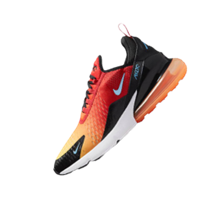
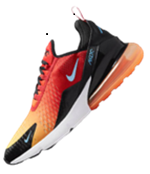
ecommerce app

diff --git a/lib/screens/homeScreen.dart b/lib/screens/homeScreen.dart
@@ -23,11 +23,9 @@ class _HomeState extends State<Home> {
             children: [
               // Navbar
               Container(
-                padding: EdgeInsets.only(
-                    top: 80, left: 20, right: 20),
+                padding: EdgeInsets.only(top: 80, left: 20, right: 20),
                 child: Row(
-                  mainAxisAlignment: MainAxisAlignment
-                      .spaceBetween, 
+                  mainAxisAlignment: MainAxisAlignment.spaceBetween,
                   children: [
                     Icon(
                       Icons.menu,
@@ -54,8 +52,7 @@ class _HomeState extends State<Home> {
               // ==== PURPLE CONTAINER ====
 
               Container(
-                margin:
-                    EdgeInsets.only(top: 30), 
+                margin: EdgeInsets.only(top: 30, left: 15, right: 15),
                 height: 150,
                 width: 360,
                 decoration: BoxDecoration(
@@ -64,6 +61,35 @@ class _HomeState extends State<Home> {
                   border: Border.all(
                     color: Color.fromRGBO(170, 20, 240, 1),
                   ),
+                ),
+                child: Row(
+                  children: [
+                    Container(
+                      width: MediaQuery.of(context).size.width * 0.5,
+
+                      decoration: BoxDecoration(
+                        color: AppColors.heartColor,
+                        borderRadius: BorderRadius.circular(20),
+                        border: Border.all(
+                          color: AppColors.heartColor,
+                        ),
+                      ),
+                    ),
+
+                  // === container 2 ===
+                  Container(
+                      // width: MediaQuery.of(context).size.width,
+
+                      // decoration: BoxDecoration(
+                      //   color: AppColors.heartColor,
+                      //   borderRadius: BorderRadius.circular(20),
+                      //   border: Border.all(
+                      //     color: AppColors.heartColor,
+                      //   ),
+                      // ),
+                      child: Image.asset('./assets/images/shoe-bg.png'),
+                    ),
+                  ],
                 ),
               ),
             ],
